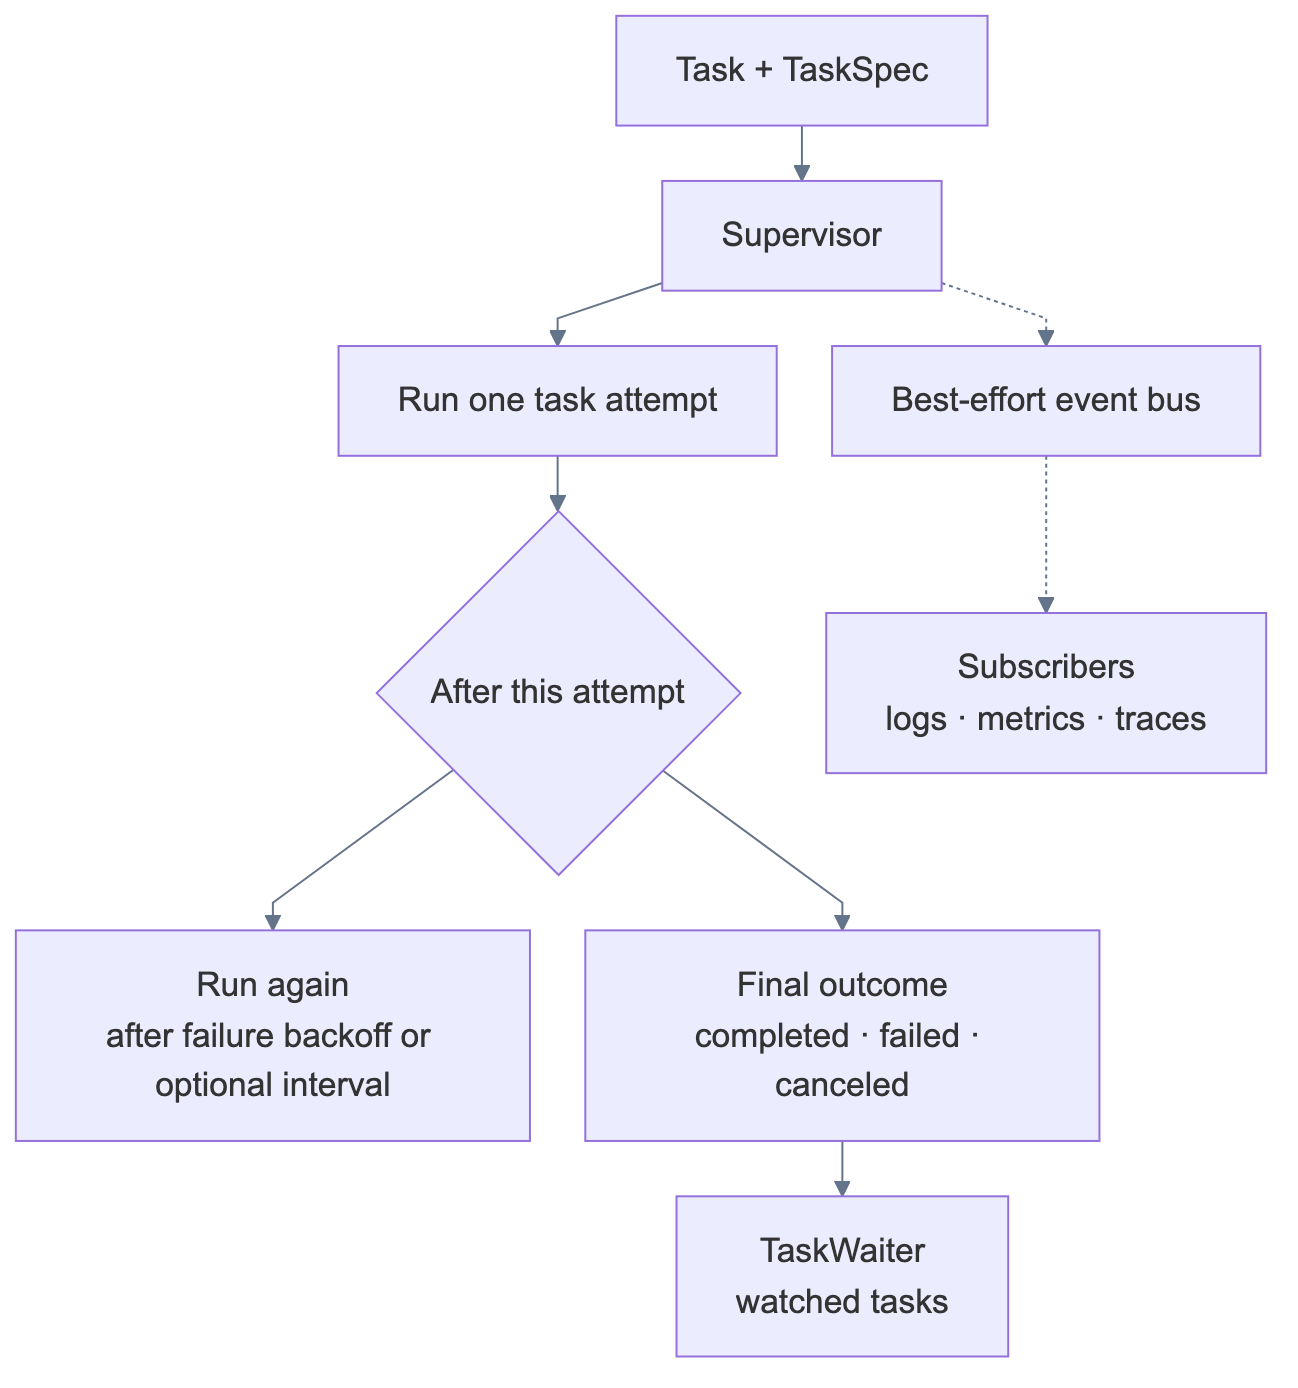
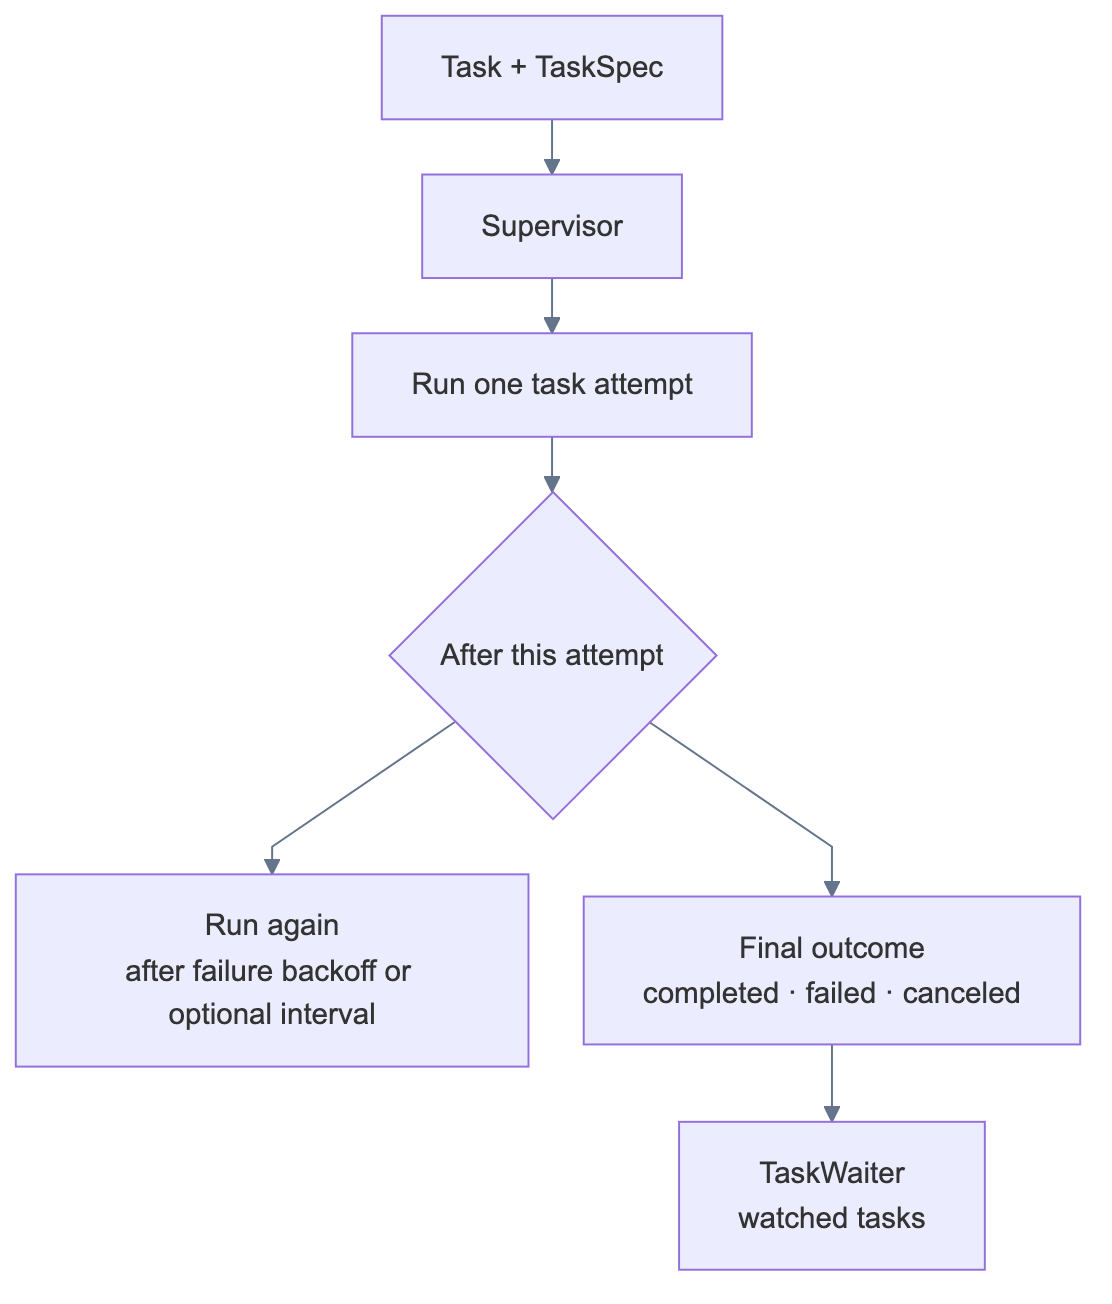
update

diff --git a/assets/schema/taskvisor-process.md b/assets/schema/taskvisor-process.md
@@ -1,5 +1,5 @@
 ```mermaid
-%%{init: {"theme": "default", "flowchart": {"curve": "linear", "htmlLabels": true, "nodeSpacing": 28, "rankSpacing": 28}, "themeVariables": {"primaryColor": "#eef2ff", "primaryTextColor": "#111827", "primaryBorderColor": "#7c3aed", "lineColor": "#64748b", "edgeLabelBackground": "#eef2ff", "secondaryColor": "#f8fafc", "tertiaryColor": "#ffffff", "fontFamily": "Arial", "fontSize": "17px"}}}%%
+%%{init: {"theme": "default", "flowchart": {"curve": "linear", "htmlLabels": true, "nodeSpacing": 28, "rankSpacing": 28}, "themeVariables": {"primaryColor": "#eef2ff", "primaryTextColor": "#111827", "primaryBorderColor": "#7c3aed", "lineColor": "#64748b", "edgeLabelBackground": "#eef2ff", "secondaryColor": "#f8fafc", "tertiaryColor": "#ffffff", "fontFamily": "Arial", "fontSize": "15px"}}}%%
 flowchart TB
     input["Task + TaskSpec"] --> supervisor["Supervisor"]
     supervisor --> attempt["Run one task attempt"]
@@ -7,9 +7,6 @@ flowchart TB
 
     next --> retry["Run again<br/>after failure backoff or optional interval"]
 
-    next --> outcome["Final outcome<br/>completed · failed · canceled"]
+    next --> outcome["Final outcome<br/>completed&nbsp;·&nbsp;failed&nbsp;·&nbsp;canceled"]
     outcome --> waiter["TaskWaiter<br/>watched tasks"]
-
-    supervisor -.-> bus["Best-effort event bus"]
-    bus -.-> subscribers["Subscribers<br/>logs · metrics · traces"]
 ```